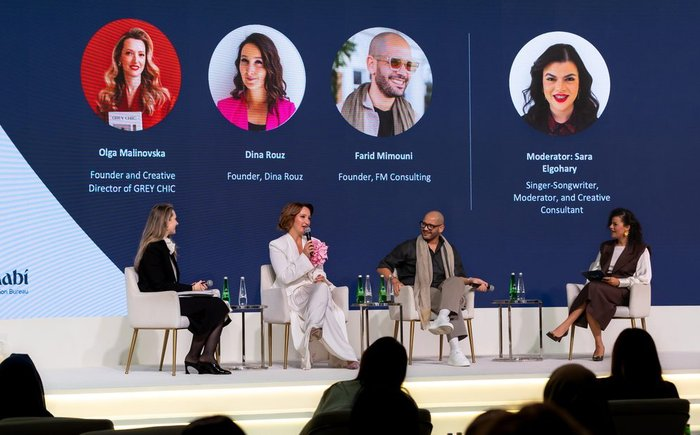
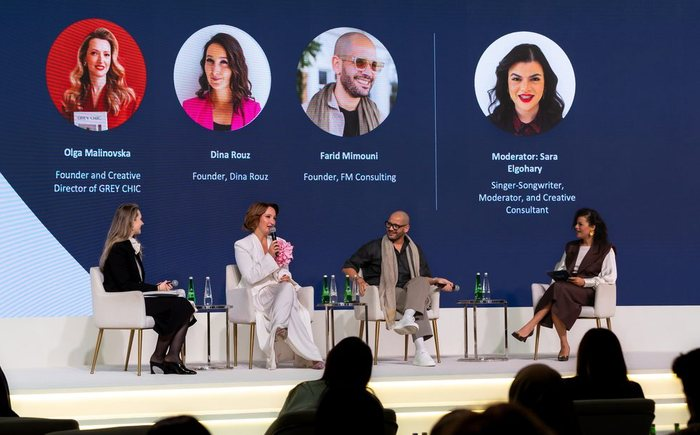
Footer venue and panel photo crop
Footer location now reads Jumeirah Saadiyat Island. The 2025 panel photo is re-cut so the partial logo on the left of the stage screen is out of frame.

Claude-Session: https://claude.ai/code/session_01D4cxsq6m6ixpHHkfuXs3P1

diff --git a/abu-dhabi-wedding-show/2025-edition.html b/abu-dhabi-wedding-show/2025-edition.html
@@ -138,7 +138,7 @@
     <div class="wrap footer__grid">
       <a class="footer__logo footer__logo--exp" href="https://visitabudhabi.ae" rel="noopener"><img src="assets/svg/logo-experience-abu-dhabi.svg" alt="Experience Abu Dhabi, Weddings &amp; Celebrations" width="208" height="90" loading="lazy"></a>
       <dl class="footer__info">
-        <dt>Location</dt><dd>Four Seasons, Abu Dhabi</dd>
+        <dt>Location</dt><dd>Jumeirah Saadiyat Island</dd>
         <dt>Date</dt><dd>Dec 15, 2025</dd>
         <dt>For Queries</dt><dd><a href="mailto:adws@inspirat.us">adws@inspirat.us</a></dd>
       </dl>

diff --git a/abu-dhabi-wedding-show/index.html b/abu-dhabi-wedding-show/index.html
@@ -127,7 +127,7 @@
     <div class="wrap footer__grid">
       <a class="footer__logo footer__logo--exp" href="https://visitabudhabi.ae" rel="noopener"><img src="assets/svg/logo-experience-abu-dhabi.svg" alt="Experience Abu Dhabi, Weddings &amp; Celebrations" width="208" height="90" loading="lazy"></a>
       <dl class="footer__info">
-        <dt>Location</dt><dd>Four Seasons, Abu Dhabi</dd>
+        <dt>Location</dt><dd>Jumeirah Saadiyat Island</dd>
         <dt>Date</dt><dd>Dec 15, 2025</dd>
         <dt>For Queries</dt><dd><a href="mailto:adws@inspirat.us">adws@inspirat.us</a></dd>
       </dl>

diff --git a/abu-dhabi-wedding-show/registration.html b/abu-dhabi-wedding-show/registration.html
@@ -123,7 +123,7 @@
     <div class="wrap footer__grid">
       <a class="footer__logo footer__logo--exp" href="https://visitabudhabi.ae" rel="noopener"><img src="assets/svg/logo-experience-abu-dhabi.svg" alt="Experience Abu Dhabi, Weddings &amp; Celebrations" width="208" height="90" loading="lazy"></a>
       <dl class="footer__info">
-        <dt>Location</dt><dd>Four Seasons, Abu Dhabi</dd>
+        <dt>Location</dt><dd>Jumeirah Saadiyat Island</dd>
         <dt>Date</dt><dd>Dec 15, 2025</dd>
         <dt>For Queries</dt><dd><a href="mailto:adws@inspirat.us">adws@inspirat.us</a></dd>
       </dl>

diff --git a/abu-dhabi-wedding-show/privacy-policy.html b/abu-dhabi-wedding-show/privacy-policy.html
@@ -89,7 +89,7 @@
     <div class="wrap footer__grid">
       <a class="footer__logo footer__logo--exp" href="https://visitabudhabi.ae" rel="noopener"><img src="assets/svg/logo-experience-abu-dhabi.svg" alt="Experience Abu Dhabi, Weddings &amp; Celebrations" width="208" height="90" loading="lazy"></a>
       <dl class="footer__info">
-        <dt>Location</dt><dd>Four Seasons, Abu Dhabi</dd>
+        <dt>Location</dt><dd>Jumeirah Saadiyat Island</dd>
         <dt>Date</dt><dd>Dec 15, 2025</dd>
         <dt>For Queries</dt><dd><a href="mailto:adws@inspirat.us">adws@inspirat.us</a></dd>
       </dl>
